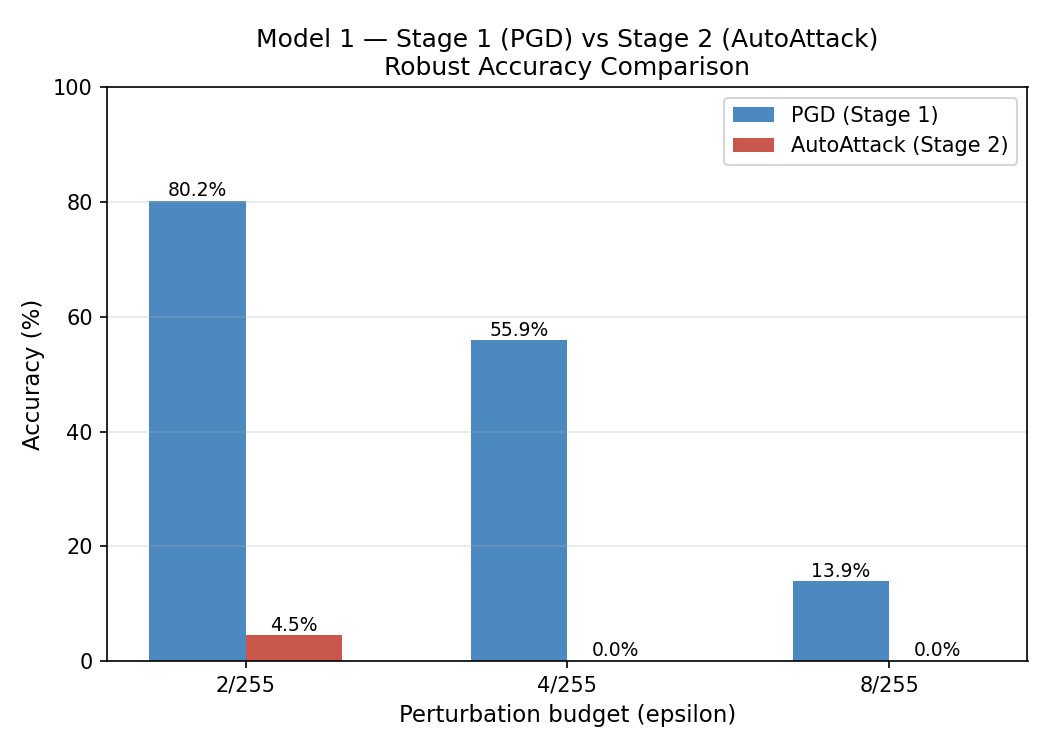
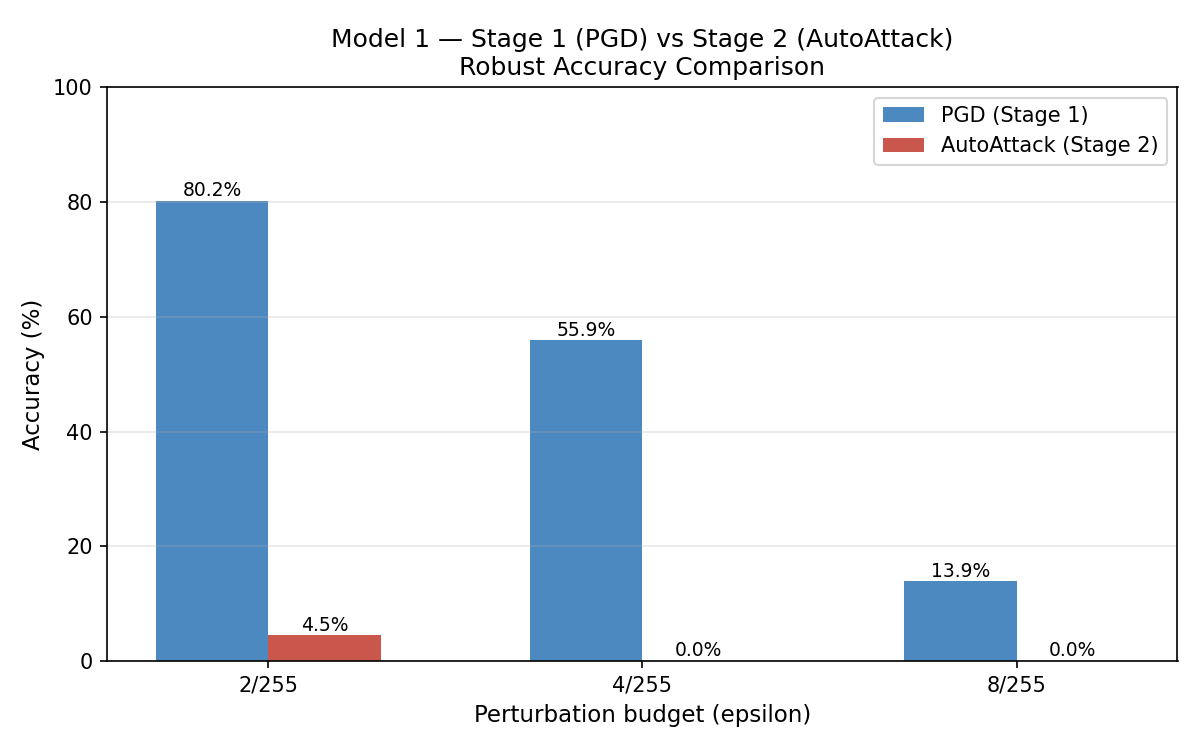
Week 2: Extracting report

diff --git a/experiments/week2_autoattack.py b/experiments/week2_autoattack.py
@@ -7,6 +7,7 @@ from data.cifar10_loader import get_loaders
 from configs.settings import (
     DEVICE, MODEL_DIR, OUTPUT_DIR, EVAL_NUM_SAMPLES
 )
+from configs.save_report import save_report
 
 EVAL_EPSILONS = [2/255, 4/255, 8/255]
 
@@ -150,19 +151,63 @@ def run():
         print(f"  PGD and AutoAttack agree. PGD was reliable here.")
 
     # ── Final diagnostic summary ──────────────────────────────────
-    print("\n" + "=" * 65)
-    print("  Final Diagnostic Summary — Model 1")
-    print("=" * 65)
-    print(f"  D1 primary   (FGSM vs PGD)       : clear")
-    print(f"  D1 secondary (Square vs APGD)     : "
-          f"{'FIRED' if any_d1 else 'clear'}")
-    print(f"  D4 (PGD step size ineffective)    : "
-          f"{'FIRED' if max_gap > 5.0 else 'clear'}")
-    print(f"  D5 (narrow robustness)            : FIRED")
-    print(f"\n  AutoAttack ground truth:")
+# ── Final diagnostic summary ──────────────────────────────────
+    summary_lines = []
+    summary_lines.append("=" * 65)
+    summary_lines.append("  Final Diagnostic Summary — Model 1")
+    summary_lines.append("=" * 65)
+    summary_lines.append(f"  D1 primary   (FGSM vs PGD)       : clear")
+    summary_lines.append(f"  D1 secondary (Square vs APGD)     : "
+                         f"{'FIRED' if any_d1 else 'clear'}")
+    summary_lines.append(f"  D4 (PGD step size ineffective)    : "
+                         f"{'FIRED' if max_gap > 5.0 else 'clear'}")
+    summary_lines.append(f"  D5 (narrow robustness)            : FIRED")
+    summary_lines.append("")
+    summary_lines.append("  AutoAttack ground truth:")
     for eps in EVAL_EPSILONS:
         eps_label = f"{round(eps*255)}/255"
-        print(f"    epsilon={eps_label} -> {aa_accuracies[eps]:.1f}% robust accuracy")
+        summary_lines.append(
+            f"    epsilon={eps_label} -> {aa_accuracies[eps]:.1f}% robust accuracy"
+        )
+    summary_lines.append("")
+    summary_lines.append("  Component breakdown:")
+    summary_lines.append(
+        f"  {'Epsilon':<12} {'APGD-CE':>10} {'APGD-DLR':>10}"
+        f" {'FAB':>8} {'Square':>10}"
+    )
+    summary_lines.append(f"  {'-'*54}")
+    for eps in EVAL_EPSILONS:
+        eps_label = f"{round(eps*255)}/255"
+        c         = all_components[eps]
+        apgd_ce  = f"{c['APGD-CE']:.1f}%"  if "APGD-CE"  in c else "N/A"
+        apgd_dlr = f"{c['APGD-DLR']:.1f}%" if "APGD-DLR" in c else "N/A"
+        fab      = f"{c['FAB']:.1f}%"       if "FAB"       in c else "N/A"
+        square   = f"{c['Square']:.1f}%"    if "Square"    in c else "N/A"
+        summary_lines.append(
+            f"  {eps_label:<12} {apgd_ce:>10} {apgd_dlr:>10}"
+            f" {fab:>8} {square:>10}"
+        )
+    summary_lines.append("")
+    summary_lines.append("  Note on N/A entries:")
+    summary_lines.append(
+        "  At epsilon=4/255 and 8/255, APGD-CE broke all images"
+    )
+    summary_lines.append(
+        "  in the first component. FAB and Square never ran because"
+    )
+    summary_lines.append(
+        "  no images survived. This confirms the model has no"
+    )
+    summary_lines.append(
+        "  resistance at these budgets — not a data issue."
+    )
+    summary_lines.append("=" * 65)
+
+    summary = "\n".join(summary_lines)
+    print(summary)
+
+    # Save report
+    save_report("week2_autoattack.txt", summary)
 
     # ── Plot ──────────────────────────────────────────────────────
     eps_labels = [f"{round(e*255)}/255" for e in EVAL_EPSILONS]

diff --git a/configs/save_report.py b/configs/save_report.py
@@ -1,0 +1,17 @@
+import os
+from configs.settings import REPORT_DIR
+
+
+def save_report(filename, content):
+    """
+    Saves a plain text report to the outputs directory.
+
+    Args:
+        filename : e.g. "week2_autoattack.txt"
+        content  : string content to write
+    """
+    os.makedirs(REPORT_DIR, exist_ok=True)
+    path = os.path.join(REPORT_DIR, filename)
+    with open(path, "w") as f:
+        f.write(content)
+    print(f"\n  Report saved to: {path}")

diff --git a/configs/settings.py b/configs/settings.py
@@ -5,6 +5,7 @@ BASE_DIR   = os.path.dirname(os.path.dirname(os.path.abspath(__file__)))
 DATA_DIR   = os.path.join(BASE_DIR, "data")
 OUTPUT_DIR = os.path.join(BASE_DIR, "outputs")
 MODEL_DIR  = os.path.join(BASE_DIR, "models")
+REPORT_DIR = os.path.join(BASE_DIR, "report")
 
 # ── Device ───────────────────────────────────────────────────────────────────
 import torch